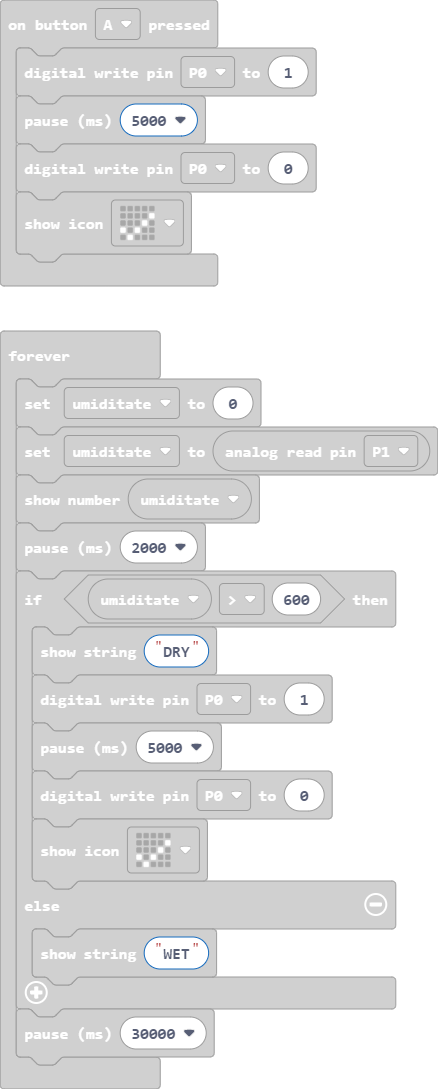
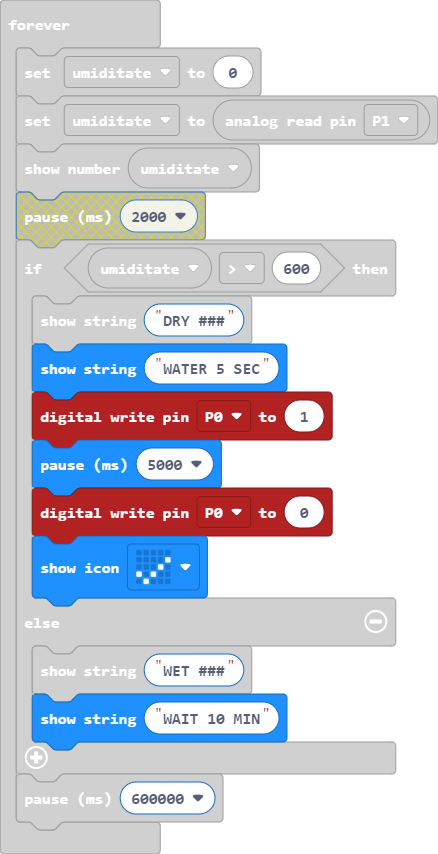
changed timings and messages

diff --git a/main.ts b/main.ts
@@ -14,15 +14,16 @@ basic.forever(function () {
     umiditate = 0
     umiditate = pins.analogReadPin(AnalogPin.P1)
     basic.showNumber(umiditate)
-    basic.pause(2000)
     if (umiditate > 600) {
-        basic.showString("DRY")
+        basic.showString("DRY ###")
+        basic.showString("WATER 5 SEC")
         pins.digitalWritePin(DigitalPin.P0, 1)
         basic.pause(5000)
         pins.digitalWritePin(DigitalPin.P0, 0)
         basic.showIcon(IconNames.Yes)
     } else {
-        basic.showString("WET")
+        basic.showString("WET ###")
+        basic.showString("WAIT 10 MIN")
     }
-    basic.pause(30000)
+    basic.pause(600000)
 })
